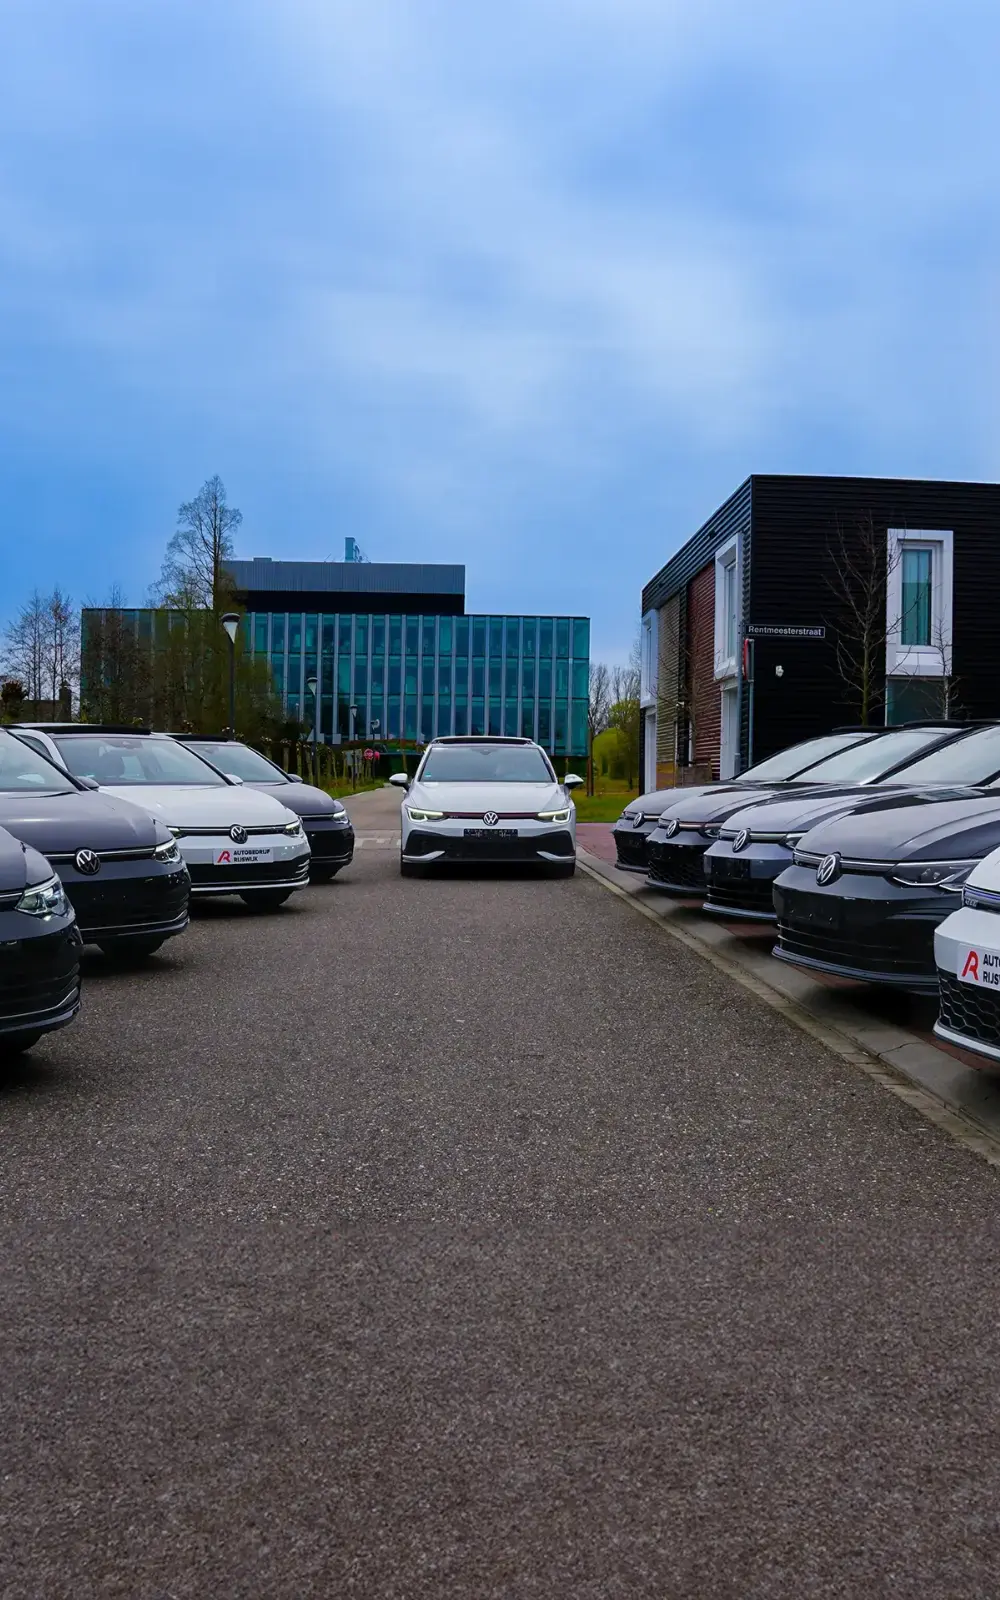
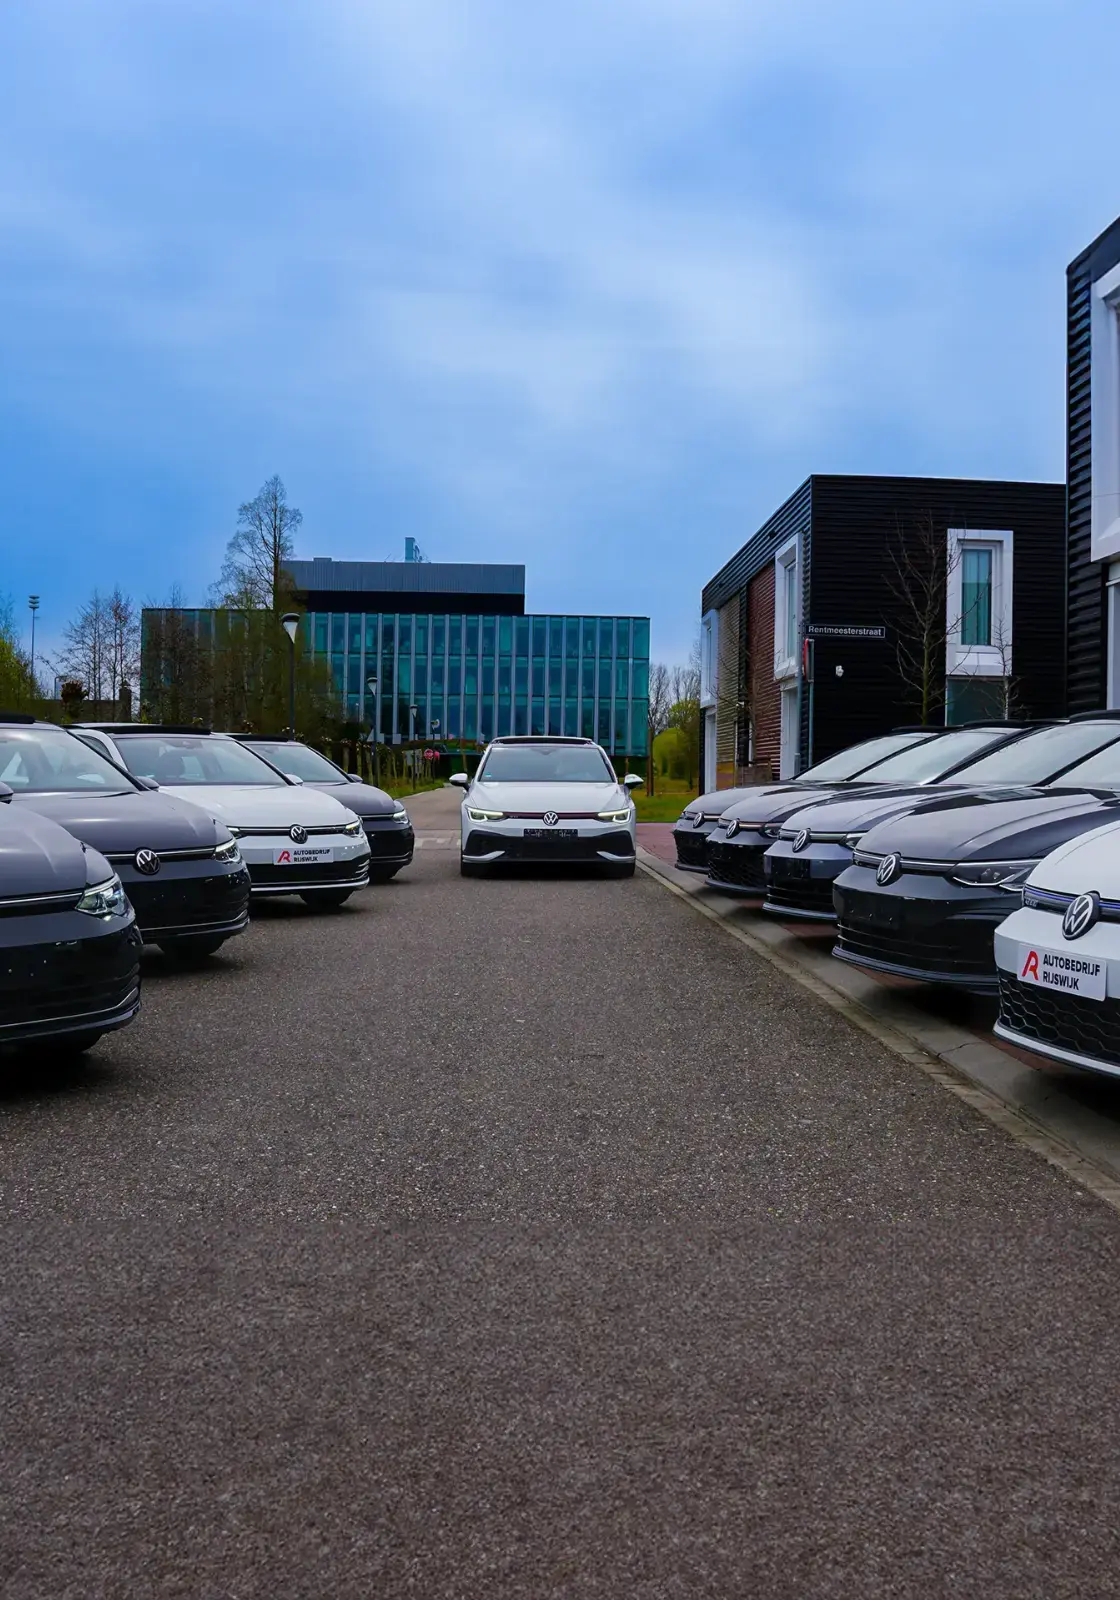
fix(iPhone/Safari): geen inzoomen, hero past, staande hero ook in Safari
Getest in WebKit (Safari-engine) met een echt iPhone-profiel (390×664 zichtbaar
door de Safari-balken, touch, DPR 3):

- iOS zoomde in op 112 velden < 16 px in het beheer (zoeken, status per auto);
  nu op touchschermen minimaal 16 px, desktop blijft compact
- staande hero werd in Safari nooit gekozen (9/16 te krap voor 390×664);
  nu 5/8 met een iets bredere uitsnede (1120×1600) die de hero exact dekt
- hero-hoogte in svh i.p.v. vh: knoppen onderin vallen niet meer onder de
  Safari-werkbalk
- live-check draait nu in Chromium én WebKit (iPhone), met extra controles:
  hero geladen/staand, datumveld, lightbox sluiten met de knop (touch),
  velden ≥ 16 px; login wacht expliciet op navigatie (WebKit-timing)

Changed region(s): [[0.0, 0.125, 1.0, 1.0]]

diff --git a/resources/css/app.css b/resources/css/app.css
@@ -39,6 +39,15 @@
         display: none !important;
     }
 
+    /* iPhone/iPad: Safari zoomt in op elk veld kleiner dan 16px (en blijft ingezoomd).
+       Op touchschermen daarom minimaal 16px; !important omdat utilities als text-sm
+       anders winnen. Op desktop blijven de compacte maten. */
+    @media (pointer: coarse) {
+        input:not([type=checkbox]):not([type=radio]):not([type=range]), select, textarea {
+            font-size: 16px !important;
+        }
+    }
+
     /* Verberg het native search-kruisje; we tonen een eigen wis-knop. */
     input[type="search"]::-webkit-search-cancel-button {
         -webkit-appearance: none;
@@ -122,6 +131,14 @@
     .scroll-thin::-webkit-scrollbar { height: 6px; width: 6px; }
     .scroll-thin::-webkit-scrollbar-track { background: transparent; }
     .scroll-thin::-webkit-scrollbar-thumb { background: rgba(242, 238, 228, 0.18); border-radius: 9999px; }
+
+    /* Hero-hoogte. iOS Safari rekent vh zónder de werkbalken: 90vh valt dan onder de
+       balk en de knoppen onderin de hero verdwijnen. svh = het zichtbare deel; oudere
+       browsers zonder svh houden de vh-regel. */
+    .min-h-hero {
+        min-height: 90vh;
+        min-height: 90svh;
+    }
 }
 
 @layer components {

diff --git a/scripts/live-check.py b/scripts/live-check.py
@@ -1,10 +1,12 @@
-"""Live browsercheck: publieke site + beheer, op desktop- en mobielformaat.
+"""Live browsercheck: publieke site + beheer, op desktop- en mobielformaat, in
+Chromium (Chrome/Edge) én WebKit (Safari; mobiel als iPhone met touch).
 
 Gebruik (met de site draaiend op LIVE_CHECK_URL, standaard http://localhost:8000):
 
     python scripts/live-check.py
 
-Vereist: `pip install playwright` en `playwright install chromium`. Inloggen
+Vereist: `pip install playwright` en `playwright install chromium webkit`
+(alleen Chromium: LIVE_CHECK_BROWSERS=chromium). Inloggen
 gebeurt met het seeder-account (of LIVE_CHECK_EMAIL / LIVE_CHECK_PASSWORD).
 
 Faalt (exit 1) bij: console-/CSP-fouten van onze eigen site, JavaScript-fouten,
@@ -20,7 +22,7 @@ from playwright.sync_api import sync_playwright
 BASE = os.environ.get("LIVE_CHECK_URL", "http://localhost:8000").rstrip("/")
 ADMIN = (os.environ.get("LIVE_CHECK_EMAIL", "admin@autobedrijfrijswijk.test"),
          os.environ.get("LIVE_CHECK_PASSWORD", "password"))
-VIEWPORTS = {"desktop": (1280, 800), "mobiel": (375, 812)}
+BROWSERS = os.environ.get("LIVE_CHECK_BROWSERS", "chromium,webkit").split(",")
 problems = []
 
 
@@ -53,15 +55,30 @@ def expect(cond, label, what):
         problems.append(f"[{label}] {what}")
 
 
-with sync_playwright() as p:
-    browser = p.chromium.launch()
+def contexts(p, engine):
+    """(label, context-opties) per formaat. WebKit-mobiel = een echte iPhone (touch, DPR 3, Safari-UA)."""
+    mobile = dict(p.devices["iPhone 13"]) if engine == "webkit" else {"viewport": {"width": 375, "height": 812}}
+    return [(f"{engine}-desktop", {"viewport": {"width": 1280, "height": 800}}), (f"{engine}-mobiel", mobile)]
 
-    for name, (w, h) in VIEWPORTS.items():
-        ctx = browser.new_context(viewport={"width": w, "height": h})
+
+with sync_playwright() as p:
+  for engine in BROWSERS:
+    browser = getattr(p, engine.strip()).launch()
+
+    for name, options in contexts(p, engine.strip()):
+        ctx = browser.new_context(**options)
         page = ctx.new_page()
+        w = page.viewport_size["width"]
         watch(page, name)
 
         # --- Publiek ---
+        # Hero-foto echt geladen (op een telefoon de staande uitsnede).
+        check_page(page, name, "/")
+        hero = page.eval_on_selector("section img[fetchpriority='high']", "i => ({ok: i.complete && i.naturalWidth > 0, src: i.currentSrc})")
+        expect(hero["ok"], name, f"hero-foto laadt niet ({hero['src']})")
+        if w < 768:
+            expect("portrait" in hero["src"], name, f"telefoon krijgt niet de staande hero ({hero['src']})")
+
         for path in ["/", "/aanbod", "/diensten", "/over-ons", "/privacybeleid",
                      "/contact?onderwerp=financiering"]:
             check_page(page, name, path)
@@ -112,6 +129,12 @@ with sync_playwright() as p:
         page.keyboard.press("Escape")
         page.wait_for_timeout(400)
         expect(not page.is_visible("[role=dialog]"), name, "lightbox sluit niet met Escape")
+        # Touch-gebruikers hebben geen Escape: de sluitknop moet werken.
+        page.click("button[aria-label=\"Foto's schermvullend bekijken\"]")
+        page.wait_for_timeout(400)
+        page.click("[role=dialog] button[aria-label*='luiten']")
+        page.wait_for_timeout(400)
+        expect(not page.is_visible("[role=dialog]"), name, "lightbox sluit niet met de sluitknop")
         expect(not page.evaluate("document.querySelector('main').inert"), name, "pagina blijft inert na sluiten")
 
         # Snelknop "Proefrit aanvragen" -> onderwerp proefrit, datumveld zichtbaar, focus in naamveld.
@@ -123,15 +146,25 @@ with sync_playwright() as p:
             focus: document.activeElement && document.activeElement.id,
         })""")
         expect(state == {"type": "proefrit", "dateVisible": True, "focus": "lead-name"}, name, f"proefrit-snelknop: {state}")
+        # Echt datumveld in de HTML (Safari op iPhone/Mac toont dan de eigen datumkiezer). Het
+        # attribuut, niet .type: WebKit voor Windows kent zelf geen datumveld (echte Safari wel).
+        expect(page.eval_on_selector("#lead-date", "e => e.getAttribute('type')") == "date", name, "datumveld is geen echt datumveld")
 
         # --- Beheer ---
         page.goto(BASE + "/login", wait_until="networkidle")
         page.fill("input[name=email]", ADMIN[0])
         page.fill("input[name=password]", ADMIN[1])
-        page.click("button[type=submit]")
-        page.wait_for_load_state("networkidle")
+        # Expliciet op de navigatie wachten: in WebKit is "networkidle" direct na de klik
+        # al waar vóórdat het formulier verstuurd is.
+        with page.expect_navigation(wait_until="networkidle"):
+            page.click("button[type=submit]")
         for path in ["/admin", "/admin/aanvragen", "/admin/aanvragen?tab=alle", "/profile"]:
             check_page(page, name, path)
+            if page.evaluate("matchMedia('(pointer: coarse)').matches"):
+                # iPhone: velden < 16px laten Safari inzoomen bij elke tik.
+                tiny = page.evaluate("""[...document.querySelectorAll('input:not([type=hidden]):not([type=checkbox]):not([type=radio]):not([type=file]), select, textarea')]
+                    .filter(e => e.getClientRects().length && parseFloat(getComputedStyle(e).fontSize) < 16).length""")
+                expect(tiny == 0, name, f"{path}: {tiny} velden < 16px (Safari zoomt in)")
         expect("Wachtwoord wijzigen" in page.content(), name, "profiel is niet Nederlands")
 
         # Bewerkpagina: fotovolgorde-knoppen, en te grote foto geblokkeerd vóór versturen.

diff --git a/resources/views/home.blade.php b/resources/views/home.blade.php
@@ -1,11 +1,13 @@
 <x-layouts.public>
     {{-- ═══════════ HERO · echte showroomfoto met tekst eroverheen ═══════════ --}}
-    <section class="relative -mt-[4.5rem] flex min-h-[90vh] items-end overflow-hidden bg-ink pt-[4.5rem]">
+    <section class="relative -mt-[4.5rem] flex min-h-hero items-end overflow-hidden bg-ink pt-[4.5rem]">
         {{-- Echte foto van het wagenpark van de zaak --}}
         {{-- Staand scherm (telefoon): de middenuitsnede. object-cover toont daar toch alleen het
-             midden van de vierkante foto; zelfde beeld, ±40% minder bytes voor de grootste afbeelding. --}}
+             midden van de vierkante foto; zelfde beeld, ±35% minder bytes voor de grootste afbeelding.
+             5/8: een iPhone in Safari (390×664 zichtbaar, door de balken) valt er ruim onder; de
+             uitsnede (0,7) dekt de hero (breedte / 90% hoogte ≤ 0,69) zonder op te rekken. --}}
         <picture>
-            <source media="(max-aspect-ratio: 9/16)" srcset="{{ asset('images/hero-showroom-portrait.webp') }}" width="1000" height="1600">
+            <source media="(max-aspect-ratio: 5/8)" srcset="{{ asset('images/hero-showroom-portrait.webp') }}" width="1120" height="1600">
             <img src="{{ asset('images/hero-showroom.webp') }}" alt="Wagenpark van {{ config('app.name') }}"
                  width="1600" height="1600" fetchpriority="high" decoding="async"
                  class="absolute inset-0 h-full w-full object-cover object-center">
